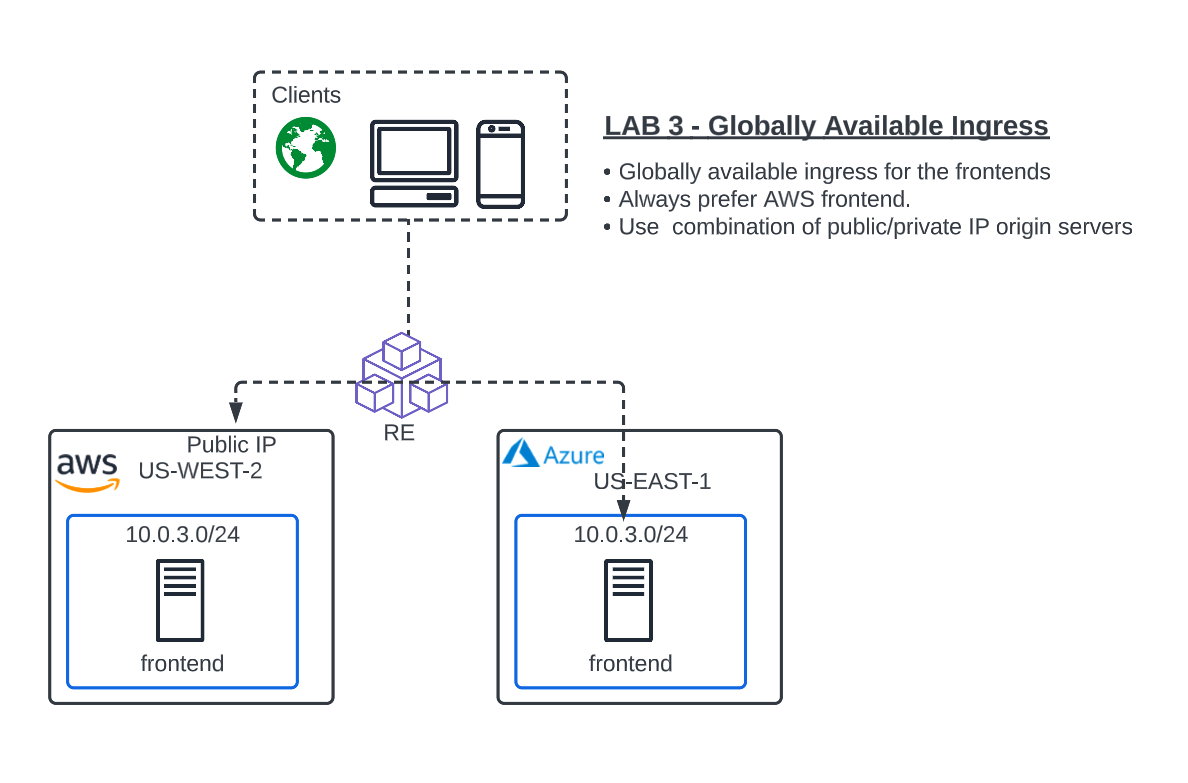
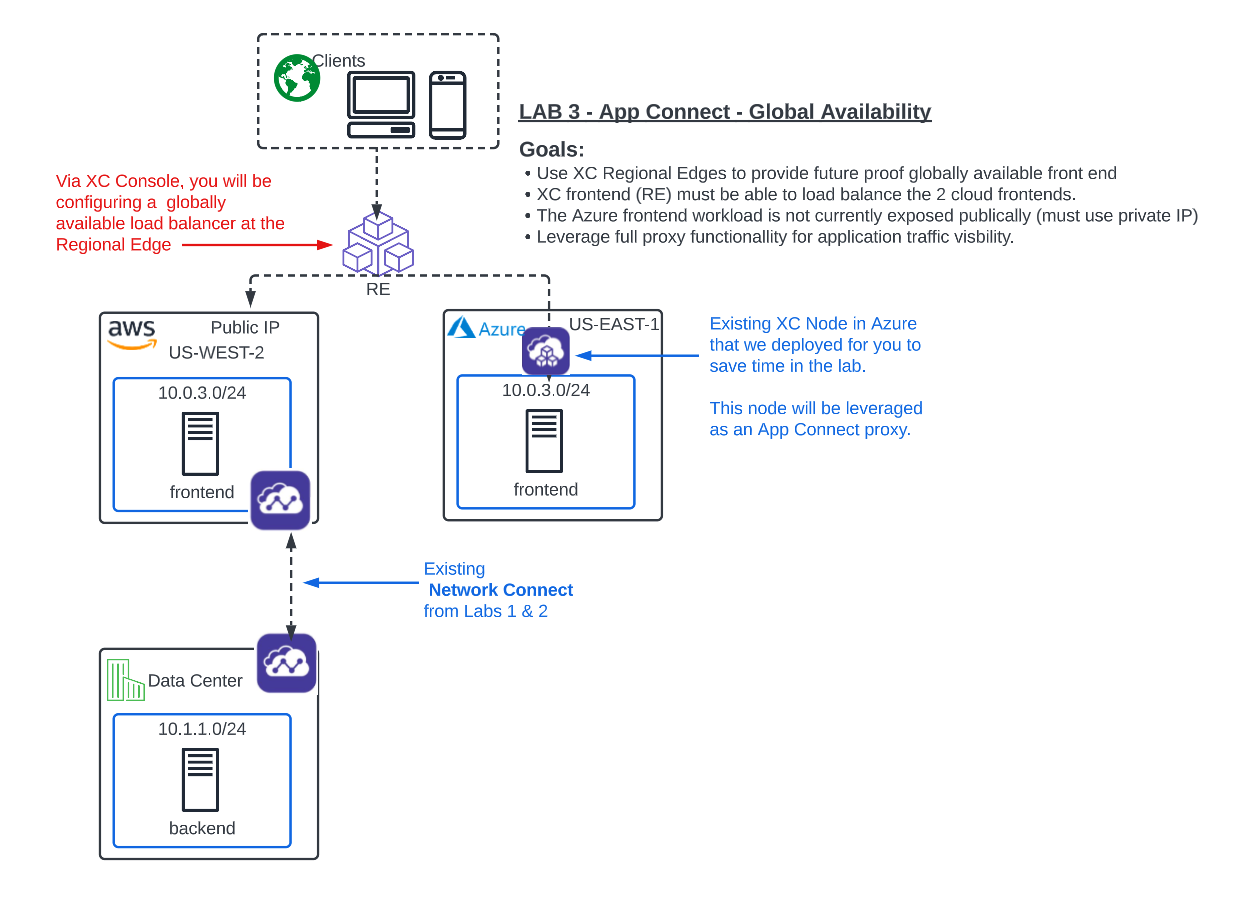
diag fixes

Changed region(s): [[0.0311, 0.3065, 0.7475, 0.9502], [0.0311, 0.0307, 0.9655, 0.3372], [0.654, 0.5517, 0.6852, 0.8889]]

diff --git a/docs/class4/module2/lab3.rst b/docs/class4/module2/lab3.rst
@@ -2,26 +2,29 @@ Lab 3: Globally Available Front End
 ================================================
 **Objective:**
 
-*Use XC Regional Edges to provide future proof globally available frontend.
+*Use XC Regional Edges to provide future-proof, globally available frontend.
 
 *XC frontend (RE) must be able to load balance the 2 cloud frontends. 
 
-*Expose Azure private frontend without adding a public IP for it. 
+*Expose Azure private frontend without adding a public IP for the workload. 
 
 *Always prefer the AWS frontend for ingress traffic. 
 
 **What they want:**
 
-.. image:: ../images/lab3bizreq1.png
+.. image:: ../images/mod2bizreq.png
 
 **Narrative:**
 
 Unfortunately, after doing your due diligence, you find that the Azure VNET overlaps with the AWS subnets. To make matters worse, 
-the Azure server is not associated with any public IP and there is a security directive in place to not have any workload servers in Azure associated with a public IP. 
+the Azure server is not associated with any public IP and there is a security directive in place to not have any workload servers in Azure associated with a public IP without a security device. 
+Lately the site has been getting pounded with traffic and frontend security has become a hot topic at ACME. 
 You think to yourself, this is going to be tricky, and reach out to your trusted F5 Solutions Engineer to see how this will work with Distributed Cloud. 
 
 Your F5 Solutions Engineer explains that IP overlap between sites is a common problem and one that can be easily solved with Distributed Cloud App Connect. 
-App Connect alleviates this problem by leveraging the XC Nodes as Software Defined proxies rather than SD Routers as they were configured with Network Connect.   
+App Connect alleviates this problem by leveraging the XC Nodes as Software Defined proxies rather than SD Routers as they were configured with Network Connect.
+
+Also, you are informed that by using F5 Distributed Cloud Regional Edges, we will now have full proxy visibility into the client traffic so we can start to understand what's been happening with the client traffic. 
 
 After reviewing the architecture with you, your Solutions Engineer advises you to break up these requirements in to 2 specific deliverables. 
 

diff --git a/docs/class4/intro.rst b/docs/class4/intro.rst
@@ -8,7 +8,8 @@ Congratulations! You are a Network Engineer at ACME company.
 
 ACME has an Application team that supports internally developed traditional and modern apps, vendor provided and SAAS applications. 
 They have started utilizing some public cloud (AWS) IAAS for several applications and have come to you with a new requirement that an on-prem backend server must be able to securely communicate
-with the AWS workloads over a secure connection. The backend (on-prem) is a security device in this exercise, and needs to scan the AWS workload on port 80. Other backends or frontends may be added in the future.  
+with the AWS workloads over a secure connection. For lab simplicity the backend (on-prem) is a pretend security device in this exercise, and needs to scan the AWS workload on port 80. 
+It could just as easily be thought of as a API to API or frontend to backend. Other backends or frontends may be added in the future.  
 
 As the Network Engineer you are tasked with evaluating how you will securely connect the on-prem network to the AWS network. 
 At first you consider the classic methods of deploying and managing your own IP-SEC solution but realize that this will be complex and costly.
@@ -39,6 +40,8 @@ The on-prem environment is emulated by the F5 UDF environment and contains an Ub
 The AWS cloud environment contains a prebuilt XC Node and a workload hosting a web frontend.  **You will not have access to the AWS console.**
 
 The Azure cloud environment contains a prebuilt XC Node and a workload hosting a web frontend.  **You will not have access to the Azure console.**
+
+.. Important:: While we are keeping the labs intentionally simple today with just a single on-prem DC and 2 Cloud sites, F5 Distributed Cloud supports much more advanced use-cases. 
 
 .. toctree::
    :maxdepth: 1
